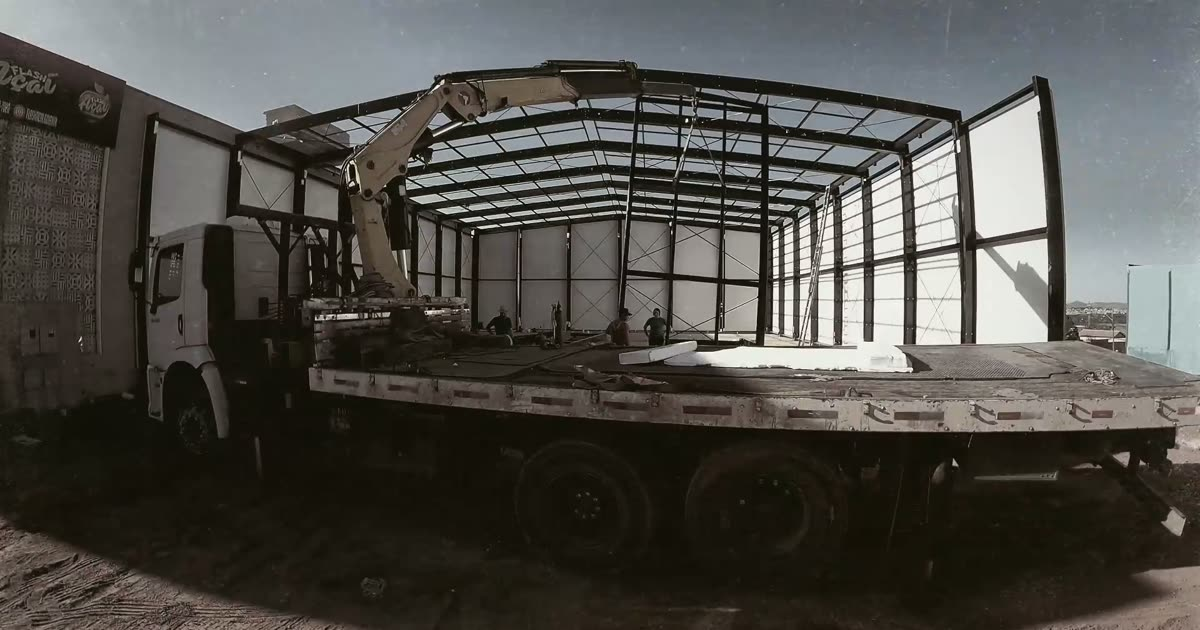
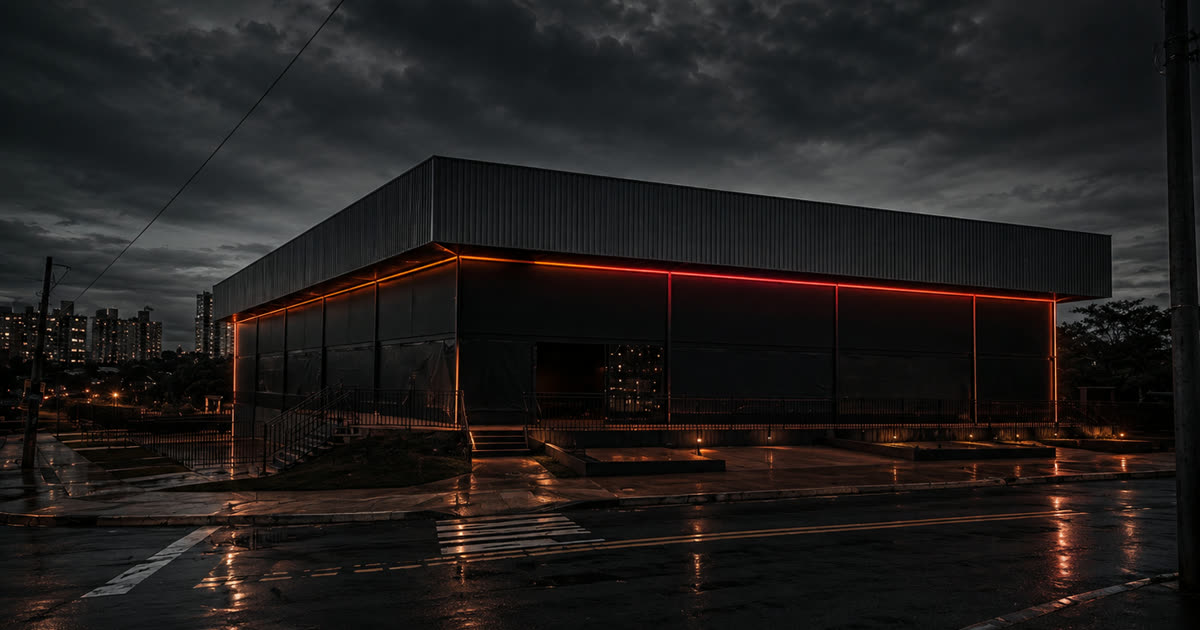
Fotos EIFF nas páginas: destaque, soluções, cases, empresa, engenharia, fabricação, tecnologia e imagem de compartilhamento
12 imagens selecionadas de G:\Meu Drive\EIFF\02 - ARQUIVOS\IMAGENS EDITADAS, exportadas em JPEG otimizado (public/img/foto-*.jpg).

diff --git a/index.html b/index.html
@@ -243,7 +243,7 @@
          05 · PROJETO DESTACADO
     ============================================================ -->
     <section class="destaque" id="destaque" aria-label="Projeto destacado">
-      <div class="destaque__bg" id="destaqueBg" aria-hidden="true"><img src="/img/still-entrega.jpg" alt="" loading="lazy" decoding="async"></div>
+      <div class="destaque__bg" id="destaqueBg" aria-hidden="true"><img src="/img/foto-galpao-interior.jpg" alt="" loading="lazy" decoding="async"></div>
       <div class="wrap destaque__content">
         <div>
           <span class="eyebrow eyebrow--ink" data-reveal>Projeto · Aparecida de Goiânia, GO</span>
@@ -331,10 +331,10 @@
           <div class="section-head__side" data-reveal><p class="body">Indústria, logística, varejo, agro, incorporadores e escritórios de arquitetura e engenharia. A estrutura é o meio. O produto é a edificação operando.</p></div>
         </div>
         <div class="sol__rows" id="solRows">
-          <a class="sol__row" href="/solucoes.html#industrial" data-img="/img/still-estrutura.jpg"><span class="idx">01</span><h3 class="h3">Industrial</h3><p>Galpões, plantas, ampliações, coberturas e áreas produtivas com pontes rolantes, cargas e interfaces de processo.</p><span class="link-arrow">Ver <svg viewBox="0 0 14 14" fill="none" stroke="currentColor" stroke-width="1.4" aria-hidden="true"><path d="M1 7h12M8 2l5 5-5 5"/></svg></span></a>
-          <a class="sol__row" href="/solucoes.html#logistica" data-img="/img/poster-04-execucao-coordenada.jpg"><span class="idx">02</span><h3 class="h3">Logística</h3><p>Centros de distribuição, armazéns e hubs com grandes vãos, pé-direito alto e piso para operação pesada.</p><span class="link-arrow">Ver <svg viewBox="0 0 14 14" fill="none" stroke="currentColor" stroke-width="1.4" aria-hidden="true"><path d="M1 7h12M8 2l5 5-5 5"/></svg></span></a>
-          <a class="sol__row" href="/solucoes.html#comercial" data-img="/img/still-entrega.jpg"><span class="idx">03</span><h3 class="h3">Comercial</h3><p>Lojas, academias, supermercados e operações de varejo com prazo curto e fechamento completo.</p><span class="link-arrow">Ver <svg viewBox="0 0 14 14" fill="none" stroke="currentColor" stroke-width="1.4" aria-hidden="true"><path d="M1 7h12M8 2l5 5-5 5"/></svg></span></a>
-          <a class="sol__row" href="/solucoes.html#especiais" data-img="/img/still-montagem.jpg"><span class="idx">04</span><h3 class="h3">Estruturas especiais</h3><p>Coberturas, marquises, mezaninos, passarelas e soluções específicas de engenharia para arquitetura e indústria.</p><span class="link-arrow">Ver <svg viewBox="0 0 14 14" fill="none" stroke="currentColor" stroke-width="1.4" aria-hidden="true"><path d="M1 7h12M8 2l5 5-5 5"/></svg></span></a>
+          <a class="sol__row" href="/solucoes.html#industrial" data-img="/img/foto-galpao-branco.jpg"><span class="idx">01</span><h3 class="h3">Industrial</h3><p>Galpões, plantas, ampliações, coberturas e áreas produtivas com pontes rolantes, cargas e interfaces de processo.</p><span class="link-arrow">Ver <svg viewBox="0 0 14 14" fill="none" stroke="currentColor" stroke-width="1.4" aria-hidden="true"><path d="M1 7h12M8 2l5 5-5 5"/></svg></span></a>
+          <a class="sol__row" href="/solucoes.html#logistica" data-img="/img/foto-galpao-aereo.jpg"><span class="idx">02</span><h3 class="h3">Logística</h3><p>Centros de distribuição, armazéns e hubs com grandes vãos, pé-direito alto e piso para operação pesada.</p><span class="link-arrow">Ver <svg viewBox="0 0 14 14" fill="none" stroke="currentColor" stroke-width="1.4" aria-hidden="true"><path d="M1 7h12M8 2l5 5-5 5"/></svg></span></a>
+          <a class="sol__row" href="/solucoes.html#comercial" data-img="/img/foto-comercial-vidro.jpg"><span class="idx">03</span><h3 class="h3">Comercial</h3><p>Lojas, academias, supermercados e operações de varejo com prazo curto e fechamento completo.</p><span class="link-arrow">Ver <svg viewBox="0 0 14 14" fill="none" stroke="currentColor" stroke-width="1.4" aria-hidden="true"><path d="M1 7h12M8 2l5 5-5 5"/></svg></span></a>
+          <a class="sol__row" href="/solucoes.html#especiais" data-img="/img/foto-estrutura-noite.jpg"><span class="idx">04</span><h3 class="h3">Estruturas especiais</h3><p>Coberturas, marquises, mezaninos, passarelas e soluções específicas de engenharia para arquitetura e indústria.</p><span class="link-arrow">Ver <svg viewBox="0 0 14 14" fill="none" stroke="currentColor" stroke-width="1.4" aria-hidden="true"><path d="M1 7h12M8 2l5 5-5 5"/></svg></span></a>
         </div>
       </div>
       <div class="sol__float" id="solFloat" aria-hidden="true"></div>
@@ -351,15 +351,15 @@
         </div>
         <div class="proj__grid">
           <a class="case" href="/projetos.html#logistico" data-cursor="Ver" data-reveal>
-            <div class="case__media"><span class="case__tag">Logística</span><img src="https://img.youtube.com/vi/wj-hzRkOYqs/hqdefault.jpg" alt="Complexo logístico em Aparecida de Goiânia" loading="lazy" decoding="async"></div>
+            <div class="case__media"><span class="case__tag">Logística</span><img src="/img/foto-galpao-aereo.jpg" alt="Complexo logístico em Aparecida de Goiânia" loading="lazy" decoding="async"></div>
             <div class="case__body"><span class="case__title">Complexo logístico</span><span class="case__meta">Aparecida de Goiânia, GO · 3.600 m² · 3 galpões</span><span class="case__num">01</span></div>
           </a>
           <a class="case" href="/projetos.html#smartfit" data-cursor="Ver" data-reveal data-reveal-delay=".1">
-            <div class="case__media"><span class="case__tag">Comercial</span><img src="https://img.youtube.com/vi/9JIeaj2HZbo/hqdefault.jpg" alt="Academia Smart Fit em Cabo Frio" loading="lazy" decoding="async"></div>
+            <div class="case__media"><span class="case__tag">Comercial</span><img src="/img/foto-smartfit.jpg" alt="Academia Smart Fit em Cabo Frio" loading="lazy" decoding="async"></div>
             <div class="case__body"><span class="case__title">Smart Fit Cabo Frio</span><span class="case__meta">Cabo Frio, RJ · 1.200 m² · 65 dias</span><span class="case__num">02</span></div>
           </a>
           <a class="case" href="/projetos.html#painelizada" data-cursor="Ver" data-reveal data-reveal-delay=".2">
-            <div class="case__media"><span class="case__tag">Tecnologia EIFF</span><img src="https://img.youtube.com/vi/4fM9Oz83_74/hqdefault.jpg" alt="Edificação painelizada em Goiânia" loading="lazy" decoding="async"></div>
+            <div class="case__media"><span class="case__tag">Tecnologia EIFF</span><img src="/img/foto-estrutura-aerea.jpg" alt="Edificação painelizada em Goiânia" loading="lazy" decoding="async"></div>
             <div class="case__body"><span class="case__title">Edificação painelizada</span><span class="case__meta">Goiânia, GO · 600 m² · área urbana central</span><span class="case__num">03</span></div>
           </a>
         </div>

diff --git a/src/styles/pages.css b/src/styles/pages.css
@@ -8,7 +8,7 @@
 .page-hero__aside { display: grid; gap: 14px; font-family: var(--font-mono); font-size: .66rem; letter-spacing: .12em; text-transform: uppercase; color: var(--ink-3); border-left: 1px solid var(--line-2); padding-left: 18px; }
 .page-hero__aside strong { color: var(--ink); font-weight: 500; display: block; font-size: .8rem; }
 .page-hero__media { margin-top: clamp(40px, 6vw, 96px); aspect-ratio: 21 / 9; overflow: hidden; position: relative; border-radius: var(--radius); }
-.page-hero__media img, .page-hero__media video { width: 100%; height: 110%; object-fit: cover; filter: grayscale(.3) contrast(1.05); }
+.page-hero__media img, .page-hero__media video { width: 100%; height: 110%; object-fit: cover; object-position: 50% 45%; filter: grayscale(.12) contrast(1.04); }
 .page-hero__media::after { content: ""; position: absolute; inset: 0; background: linear-gradient(to top, rgba(10,10,11,.5), transparent 50%); }
 .page-hero__media .cap { position: absolute; left: 20px; bottom: 16px; font-family: var(--font-mono); font-size: .62rem; letter-spacing: .14em; text-transform: uppercase; color: var(--ink-2); }
 
@@ -18,7 +18,7 @@
 .split .h2 { margin: 22px 0 24px; }
 .split .body + .body { margin-top: 18px; }
 .figure { position: relative; overflow: hidden; border-radius: var(--radius); background: var(--bg-3); border: 1px solid var(--line); }
-.figure img { width: 100%; height: 100%; object-fit: cover; filter: grayscale(.35) contrast(1.05); }
+.figure img { width: 100%; height: 100%; object-fit: cover; object-position: 50% 40%; filter: grayscale(.15) contrast(1.04); }
 .figure--tall { aspect-ratio: 4 / 5; }
 .figure--wide { aspect-ratio: 16 / 10; }
 .figure .cap { position: absolute; left: 16px; bottom: 14px; font-family: var(--font-mono); font-size: .6rem; letter-spacing: .14em; text-transform: uppercase; color: var(--ink-2); background: rgba(10,10,11,.5); padding: 6px 8px; backdrop-filter: blur(6px); }
@@ -50,7 +50,7 @@
 .case-full { padding-block: var(--section-s); border-top: 1px solid var(--line); }
 .case-full__grid { display: grid; grid-template-columns: minmax(0, 7fr) minmax(0, 5fr); gap: clamp(32px, 5vw, 96px); align-items: start; }
 .case-full__media { position: relative; aspect-ratio: 16 / 9; overflow: hidden; border-radius: var(--radius); background: var(--bg-3); }
-.case-full__media img { width: 100%; height: 100%; object-fit: cover; filter: grayscale(.35) contrast(1.05); transition: transform 1.2s var(--ease-out); }
+.case-full__media img { width: 100%; height: 100%; object-fit: cover; object-position: 50% 35%; filter: grayscale(.1) contrast(1.04); transition: transform 1.2s var(--ease-out); }
 .case-full__media:hover img { transform: scale(1.04); }
 .case-full__media .play { position: absolute; left: 24px; bottom: 24px; z-index: 1; }
 .case-full__head { display: flex; justify-content: space-between; align-items: baseline; gap: 20px; margin-bottom: 18px; }

diff --git a/solucoes.html b/solucoes.html
@@ -32,7 +32,7 @@
 
     <section class="section section--tight" id="industrial">
       <div class="wrap split split--rev">
-        <div class="figure figure--wide" data-reveal><img src="/img/still-estrutura.jpg" alt="Içamento de painel de cobertura em obra" loading="eager" decoding="async"><span class="cap">01 · Industrial</span></div>
+        <div class="figure figure--wide" data-reveal><img src="/img/foto-galpao-branco.jpg" alt="Galpão industrial metálico sob céu nublado" loading="eager" decoding="async"><span class="cap">01 · Industrial</span></div>
         <div>
           <span class="eyebrow" data-reveal>01 · Industrial</span>
           <h2 class="h2" data-split>Plantas, galpões e ampliações que operam.</h2>
@@ -58,13 +58,13 @@
             <dt>Referência</dt><dd>Complexo logístico · Aparecida de Goiânia · 3 galpões · 3.600 m²</dd>
           </dl>
         </div>
-        <div class="figure figure--wide" data-reveal><img src="/img/poster-04-execucao-coordenada.jpg" alt="Vista aérea de terreno com fundações em execução" loading="lazy" decoding="async"><span class="cap">02 · Logística</span></div>
+        <div class="figure figure--wide" data-reveal><img src="/img/foto-galpao-interior.jpg" alt="Interior de galpão logístico com mezanino e piso polido" loading="lazy" decoding="async"><span class="cap">02 · Logística</span></div>
       </div>
     </section>
 
     <section class="section" id="comercial">
       <div class="wrap split split--rev">
-        <div class="figure figure--wide" data-reveal><img src="/img/still-entrega.jpg" alt="Estrutura metálica de edificação comercial com fechamento em painéis" loading="lazy" decoding="async"><span class="cap">03 · Comercial</span></div>
+        <div class="figure figure--wide" data-reveal><img src="/img/foto-comercial-vidro.jpg" alt="Edificação comercial metálica com fachada de vidro" loading="lazy" decoding="async"><span class="cap">03 · Comercial</span></div>
         <div>
           <span class="eyebrow" data-reveal>03 · Comercial</span>
           <h2 class="h2" data-split>Prazo curto, fechamento completo, loja aberta.</h2>
@@ -90,7 +90,7 @@
             <dt>Referência</dt><dd>Edificação painelizada em área urbana central · Goiânia</dd>
           </dl>
         </div>
-        <div class="figure figure--wide" data-reveal><img src="/img/still-montagem.jpg" alt="Painéis estruturais pré-montados no canteiro" loading="lazy" decoding="async"><span class="cap">04 · Estruturas especiais</span></div>
+        <div class="figure figure--wide" data-reveal><img src="/img/foto-estrutura-noite.jpg" alt="Estrutura metálica iluminada à noite entre árvores" loading="lazy" decoding="async"><span class="cap">04 · Estruturas especiais</span></div>
       </div>
     </section>
 

diff --git a/src/styles/home.css b/src/styles/home.css
@@ -87,7 +87,7 @@
 /* 05 · Projeto destacado --------------------------------- */
 .destaque { position: relative; min-height: 100svh; display: grid; align-items: end; overflow: hidden; background: var(--bg); }
 .destaque__bg { position: absolute; inset: -12% 0; }
-.destaque__bg img { width: 100%; height: 100%; object-fit: cover; filter: grayscale(.5) contrast(1.05); opacity: .6; }
+.destaque__bg img { width: 100%; height: 100%; object-fit: cover; filter: grayscale(.15) contrast(1.05); opacity: .7; }
 .destaque__bg::after { content: ""; position: absolute; inset: 0; background: linear-gradient(to top, var(--bg) 0%, rgba(10,10,11,.5) 45%, rgba(10,10,11,.2) 100%); }
 .destaque__content { position: relative; z-index: 1; padding-block: clamp(56px, 8vw, 120px); display: grid; grid-template-columns: minmax(0, 1fr) auto; gap: 40px; align-items: end; }
 .destaque__content .h2 { margin: 18px 0 20px; max-width: 10em; }
@@ -135,7 +135,7 @@
 .sol__row::after { content: ""; position: absolute; left: 0; bottom: -1px; width: 100%; height: 1px; background: var(--brand); transform: scaleX(0); transform-origin: left; transition: transform .7s var(--ease-out); }
 .sol__row:hover::after { transform: scaleX(1); }
 .sol__float { position: fixed; z-index: 5; width: clamp(240px, 22vw, 380px); aspect-ratio: 4 / 3; pointer-events: none; opacity: 0; overflow: hidden; border-radius: var(--radius); transform: translate(-50%, -50%) scale(.9); transition: opacity .35s, transform .5s var(--ease-out); }
-.sol__float img { position: absolute; inset: 0; width: 100%; height: 100%; object-fit: cover; opacity: 0; transition: opacity .4s; filter: grayscale(.3) contrast(1.05); }
+.sol__float img { position: absolute; inset: 0; width: 100%; height: 100%; object-fit: cover; object-position: 50% 35%; opacity: 0; transition: opacity .4s; filter: contrast(1.04); }
 .sol__float img.is-on { opacity: 1; }
 .sol__float.is-on { opacity: 1; transform: translate(-50%, -50%) scale(1); }
 

diff --git a/projetos.html b/projetos.html
@@ -34,7 +34,7 @@
       <article class="case-full" id="logistico">
         <div class="case-full__grid">
           <div class="case-full__media" data-reveal data-cursor="Assistir">
-            <img src="https://img.youtube.com/vi/wj-hzRkOYqs/maxresdefault.jpg" alt="Complexo logístico em Aparecida de Goiânia" loading="eager" decoding="async">
+            <img src="/img/foto-galpao-aereo.jpg" alt="Complexo logístico em Aparecida de Goiânia" loading="eager" decoding="async">
             <button class="play" type="button" data-video="wj-hzRkOYqs"><i></i><span>Assistir à obra</span></button>
           </div>
           <div>
@@ -58,7 +58,7 @@
       <article class="case-full" id="smartfit">
         <div class="case-full__grid">
           <div class="case-full__media" data-reveal data-cursor="Assistir">
-            <img src="https://img.youtube.com/vi/9JIeaj2HZbo/maxresdefault.jpg" alt="Academia Smart Fit em Cabo Frio" loading="lazy" decoding="async">
+            <img src="/img/foto-smartfit.jpg" alt="Academia Smart Fit em Cabo Frio" loading="lazy" decoding="async">
             <button class="play" type="button" data-video="9JIeaj2HZbo"><i></i><span>Assistir à obra</span></button>
           </div>
           <div>
@@ -82,7 +82,7 @@
       <article class="case-full" id="painelizada">
         <div class="case-full__grid">
           <div class="case-full__media" data-reveal data-cursor="Assistir">
-            <img src="https://img.youtube.com/vi/4fM9Oz83_74/maxresdefault.jpg" alt="Edificação painelizada em área urbana central de Goiânia" loading="lazy" decoding="async">
+            <img src="/img/foto-estrutura-aerea.jpg" alt="Edificação painelizada em área urbana central de Goiânia" loading="lazy" decoding="async">
             <button class="play" type="button" data-video="4fM9Oz83_74"><i></i><span>Assistir à obra</span></button>
           </div>
           <div>

diff --git a/src/styles/components.css b/src/styles/components.css
@@ -169,7 +169,7 @@ html.js .hr--grow { transform: scaleX(0); }
 /* Cards de projeto ----------------------------------------- */
 .case { display: block; position: relative; }
 .case__media { position: relative; aspect-ratio: 16 / 10; overflow: hidden; background: var(--bg-3); border-radius: var(--radius); }
-.case__media img { width: 100%; height: 100%; object-fit: cover; filter: grayscale(.4) contrast(1.05); transform: scale(1.02); transition: transform 1.2s var(--ease-out), filter .8s; }
+.case__media img { width: 100%; height: 100%; object-fit: cover; object-position: 50% 35%; filter: grayscale(.15) contrast(1.04); transform: scale(1.02); transition: transform 1.2s var(--ease-out), filter .8s; }
 .case:hover .case__media img { transform: scale(1.07); filter: grayscale(0) contrast(1); }
 .case__media::after { content: ""; position: absolute; inset: 0; background: linear-gradient(to top, rgba(10,10,11,.55), transparent 55%); }
 .case__tag { position: absolute; left: 18px; top: 18px; z-index: 1; font-family: var(--font-mono); font-size: .62rem; letter-spacing: .14em; text-transform: uppercase; color: var(--ink); background: rgba(10,10,11,.55); border: 1px solid var(--line-2); padding: 6px 10px; backdrop-filter: blur(8px); }

diff --git a/empresa.html b/empresa.html
@@ -29,8 +29,8 @@
           </div>
         </div>
         <div class="page-hero__media" data-reveal>
-          <img src="/img/still-fabricacao.jpg" alt="Perfil metálico e corte a plasma na fábrica EIFF" width="1600" height="900">
-          <span class="cap">Fábrica · corte e preparação de perfis</span>
+          <img src="/img/foto-galpao-noite.jpg" alt="Galpão metálico EIFF ao entardecer" loading="eager" decoding="async">
+          <span class="cap">Edificação industrial · entardecer</span>
         </div>
       </div>
     </section>
@@ -94,8 +94,8 @@
       <div class="wrap">
         <div class="split split--rev">
           <div class="figure figure--wide" data-reveal>
-            <img src="/img/still-estrutura.jpg" alt="Painel metálico sendo içado por guindaste em obra urbana" loading="lazy">
-            <span class="cap">Montagem · içamento de painel pré-industrializado</span>
+            <img src="/img/foto-fabrica-portico.jpg" alt="Interior da fábrica com pórtico rolante e vigas" loading="lazy" decoding="async">
+            <span class="cap">Fábrica · pórtico rolante</span>
           </div>
           <div>
             <span class="eyebrow" data-reveal>Estrutura</span>

diff --git a/tecnologia.html b/tecnologia.html
@@ -27,7 +27,7 @@
             <div><span>Regra</span><strong>Tecnologia sem ficção científica</strong></div>
           </div>
         </div>
-        <div class="page-hero__media" data-reveal><img src="/img/still-montagem.jpg" alt="Painéis estruturais pré-montados aguardando içamento" loading="eager" decoding="async"><span class="cap">Painelização · pré-montagem no canteiro</span></div>
+        <div class="page-hero__media" data-reveal><img src="/img/foto-montagem-porticos.jpg" alt="Pórticos metálicos sendo montados com plataformas elevatórias" loading="eager" decoding="async"><span class="cap">Montagem · pórticos e terças</span></div>
       </div>
     </section>
 

diff --git a/engenharia.html b/engenharia.html
@@ -28,7 +28,7 @@
             <div><span>Objetivo</span><strong>Zero decisão no canteiro</strong></div>
           </div>
         </div>
-        <div class="page-hero__media" data-reveal><img src="/img/still-engenharia.jpg" alt="Modelagem estrutural em escritório de engenharia" loading="eager" decoding="async"><span class="cap">Engenharia · modelo e detalhamento</span></div>
+        <div class="page-hero__media" data-reveal><img src="/img/foto-estrutura-por-do-sol.jpg" alt="Estrutura metálica com pilares, vigas e terças ao pôr do sol" loading="eager" decoding="async"><span class="cap">Estrutura · pilares, vigas e terças</span></div>
       </div>
     </section>
 

diff --git a/fabricacao.html b/fabricacao.html
@@ -29,8 +29,8 @@
           </div>
         </div>
         <div class="page-hero__media" data-reveal>
-          <img src="/img/still-fabricacao.jpg" alt="Corte, furação e solda na fábrica EIFF" loading="eager" decoding="async">
-          <span class="cap">Fábrica · corte, furação e solda</span>
+          <img src="/img/foto-fabrica-vigas.jpg" alt="Vigas metálicas prontas na fábrica, com pórtico rolante" loading="eager" decoding="async">
+          <span class="cap">Fábrica · vigas prontas para expedição</span>
         </div>
       </div>
     </section>
